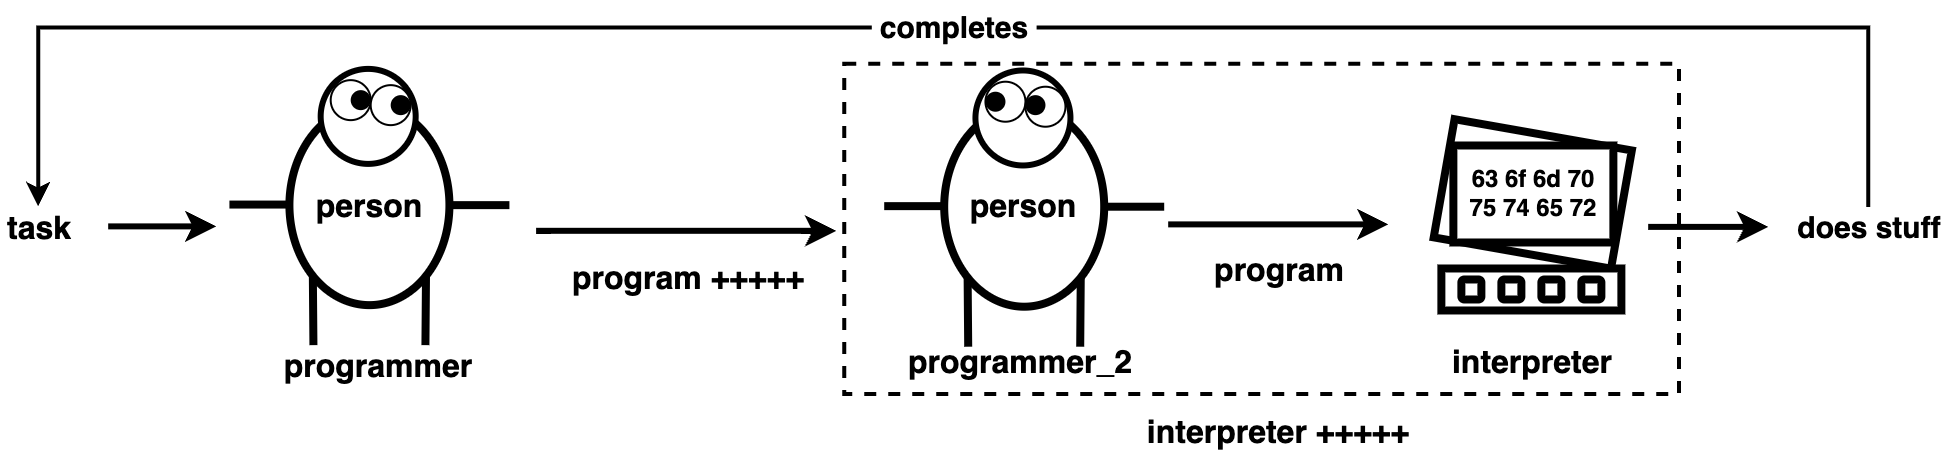
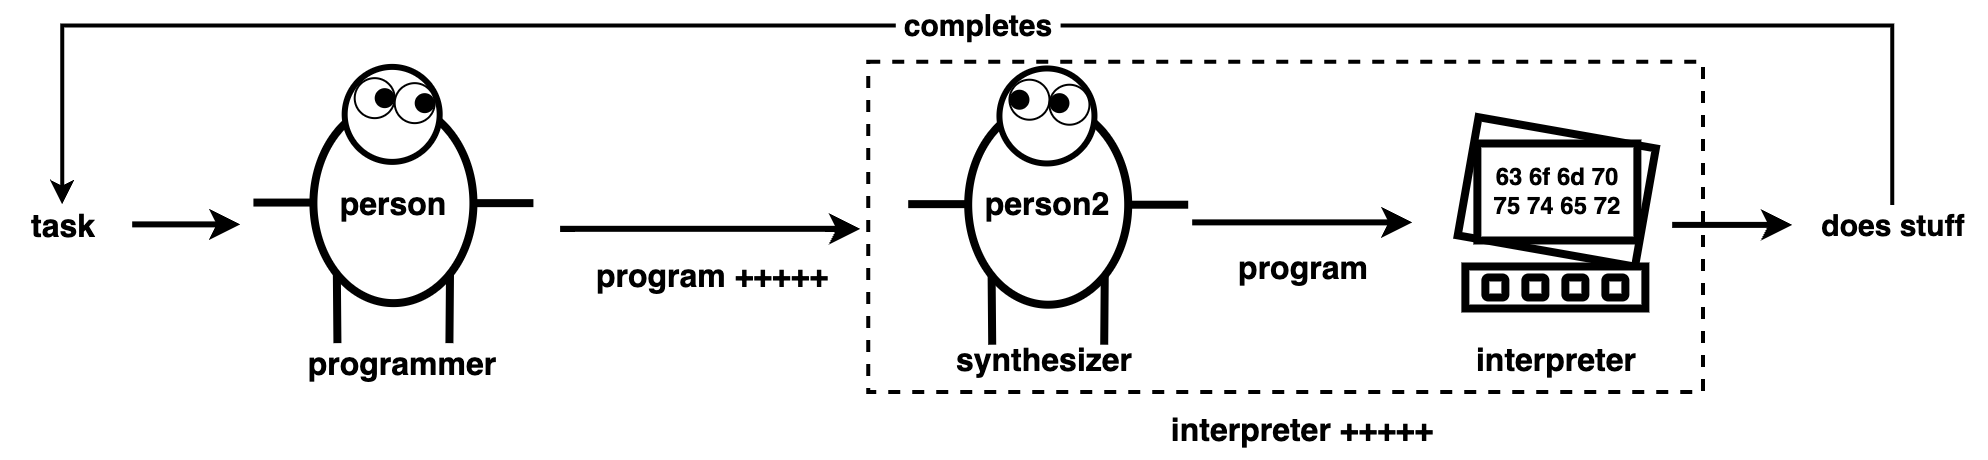
more edits

diff --git a/_posts/2022-08-11-what-is-this.md b/_posts/2022-08-11-what-is-this.md
@@ -35,11 +35,11 @@ Program synthesis is a system that makes programming easier. gcc frees you from 
  The synthesizer and the interpreter together is the interpreter++, which takes in program++ and does stuff. Thus, program synthesis is simply "easier programming" and must be stated in relationship with the original "harder programming" context.
 
 ## what is the end game?
-The end game is to make programming as easy as possible. To make it more concrete, we can take a [Joshian](https://youtu.be/RB78vRUO6X8) point of view, and look at human programmers as the ultimate synthesizer.
+We can take a [Joshian](https://youtu.be/RB78vRUO6X8) point of view, and let the goal of program synthesis be building a system that can subsitute for a human developer (programmer). The art of program synthesis is making program++ as humane as possible, while keeping the mapping between program++ and program tractable.
 
 ![Image with caption](/program-synthesis-primer/assets/what-is-this/synthesis-ultimate.png "human-program")
 
-Of course, we are not to be limited by human capabilities. The goal is to go even further beyond!! AAaaaaaAaaA[AAaaaAA](https://youtu.be/3FM2kbvYljw?t=18)AAaaAaahhHHhHHhH (okay I'll stop).
+Of course, we don't have to be limited by human programming capabilities. We aim to build a synthesizer that can to go even further beyond!! AAaaaaaAaaA[AAaaaAA](https://youtu.be/3FM2kbvYljw?t=18)AAaaAaahhHHhHHhH (okay I'll stop).
 
 -- evan  2022-08-11
 
